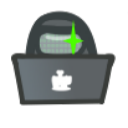
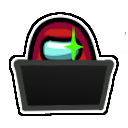
fix watermark position, and update hacker images hacker images

diff --git a/LaunchpadReloaded/Patches/WatermarkPatch.cs b/LaunchpadReloaded/Patches/WatermarkPatch.cs
@@ -24,7 +24,8 @@ public static class WatermarkPatch
         __instance.text.richText = true;
         __instance.text.text = "<color=#FF4050FF>All Of Us:</color> Launchpad \n<color=#7785CC>dsc.gg/allofus</color>";
 
-        aspectPos.DistanceFromEdge = new Vector3(4, 0.1f, 0);
+        float x = HudManager.Instance.gameObject.GetComponentInChildren<FriendsListButton>() != null ? 4 : 2.3f;
+        aspectPos.DistanceFromEdge = new Vector3(x, 0.1f, 0);
 
         return false;
     }
